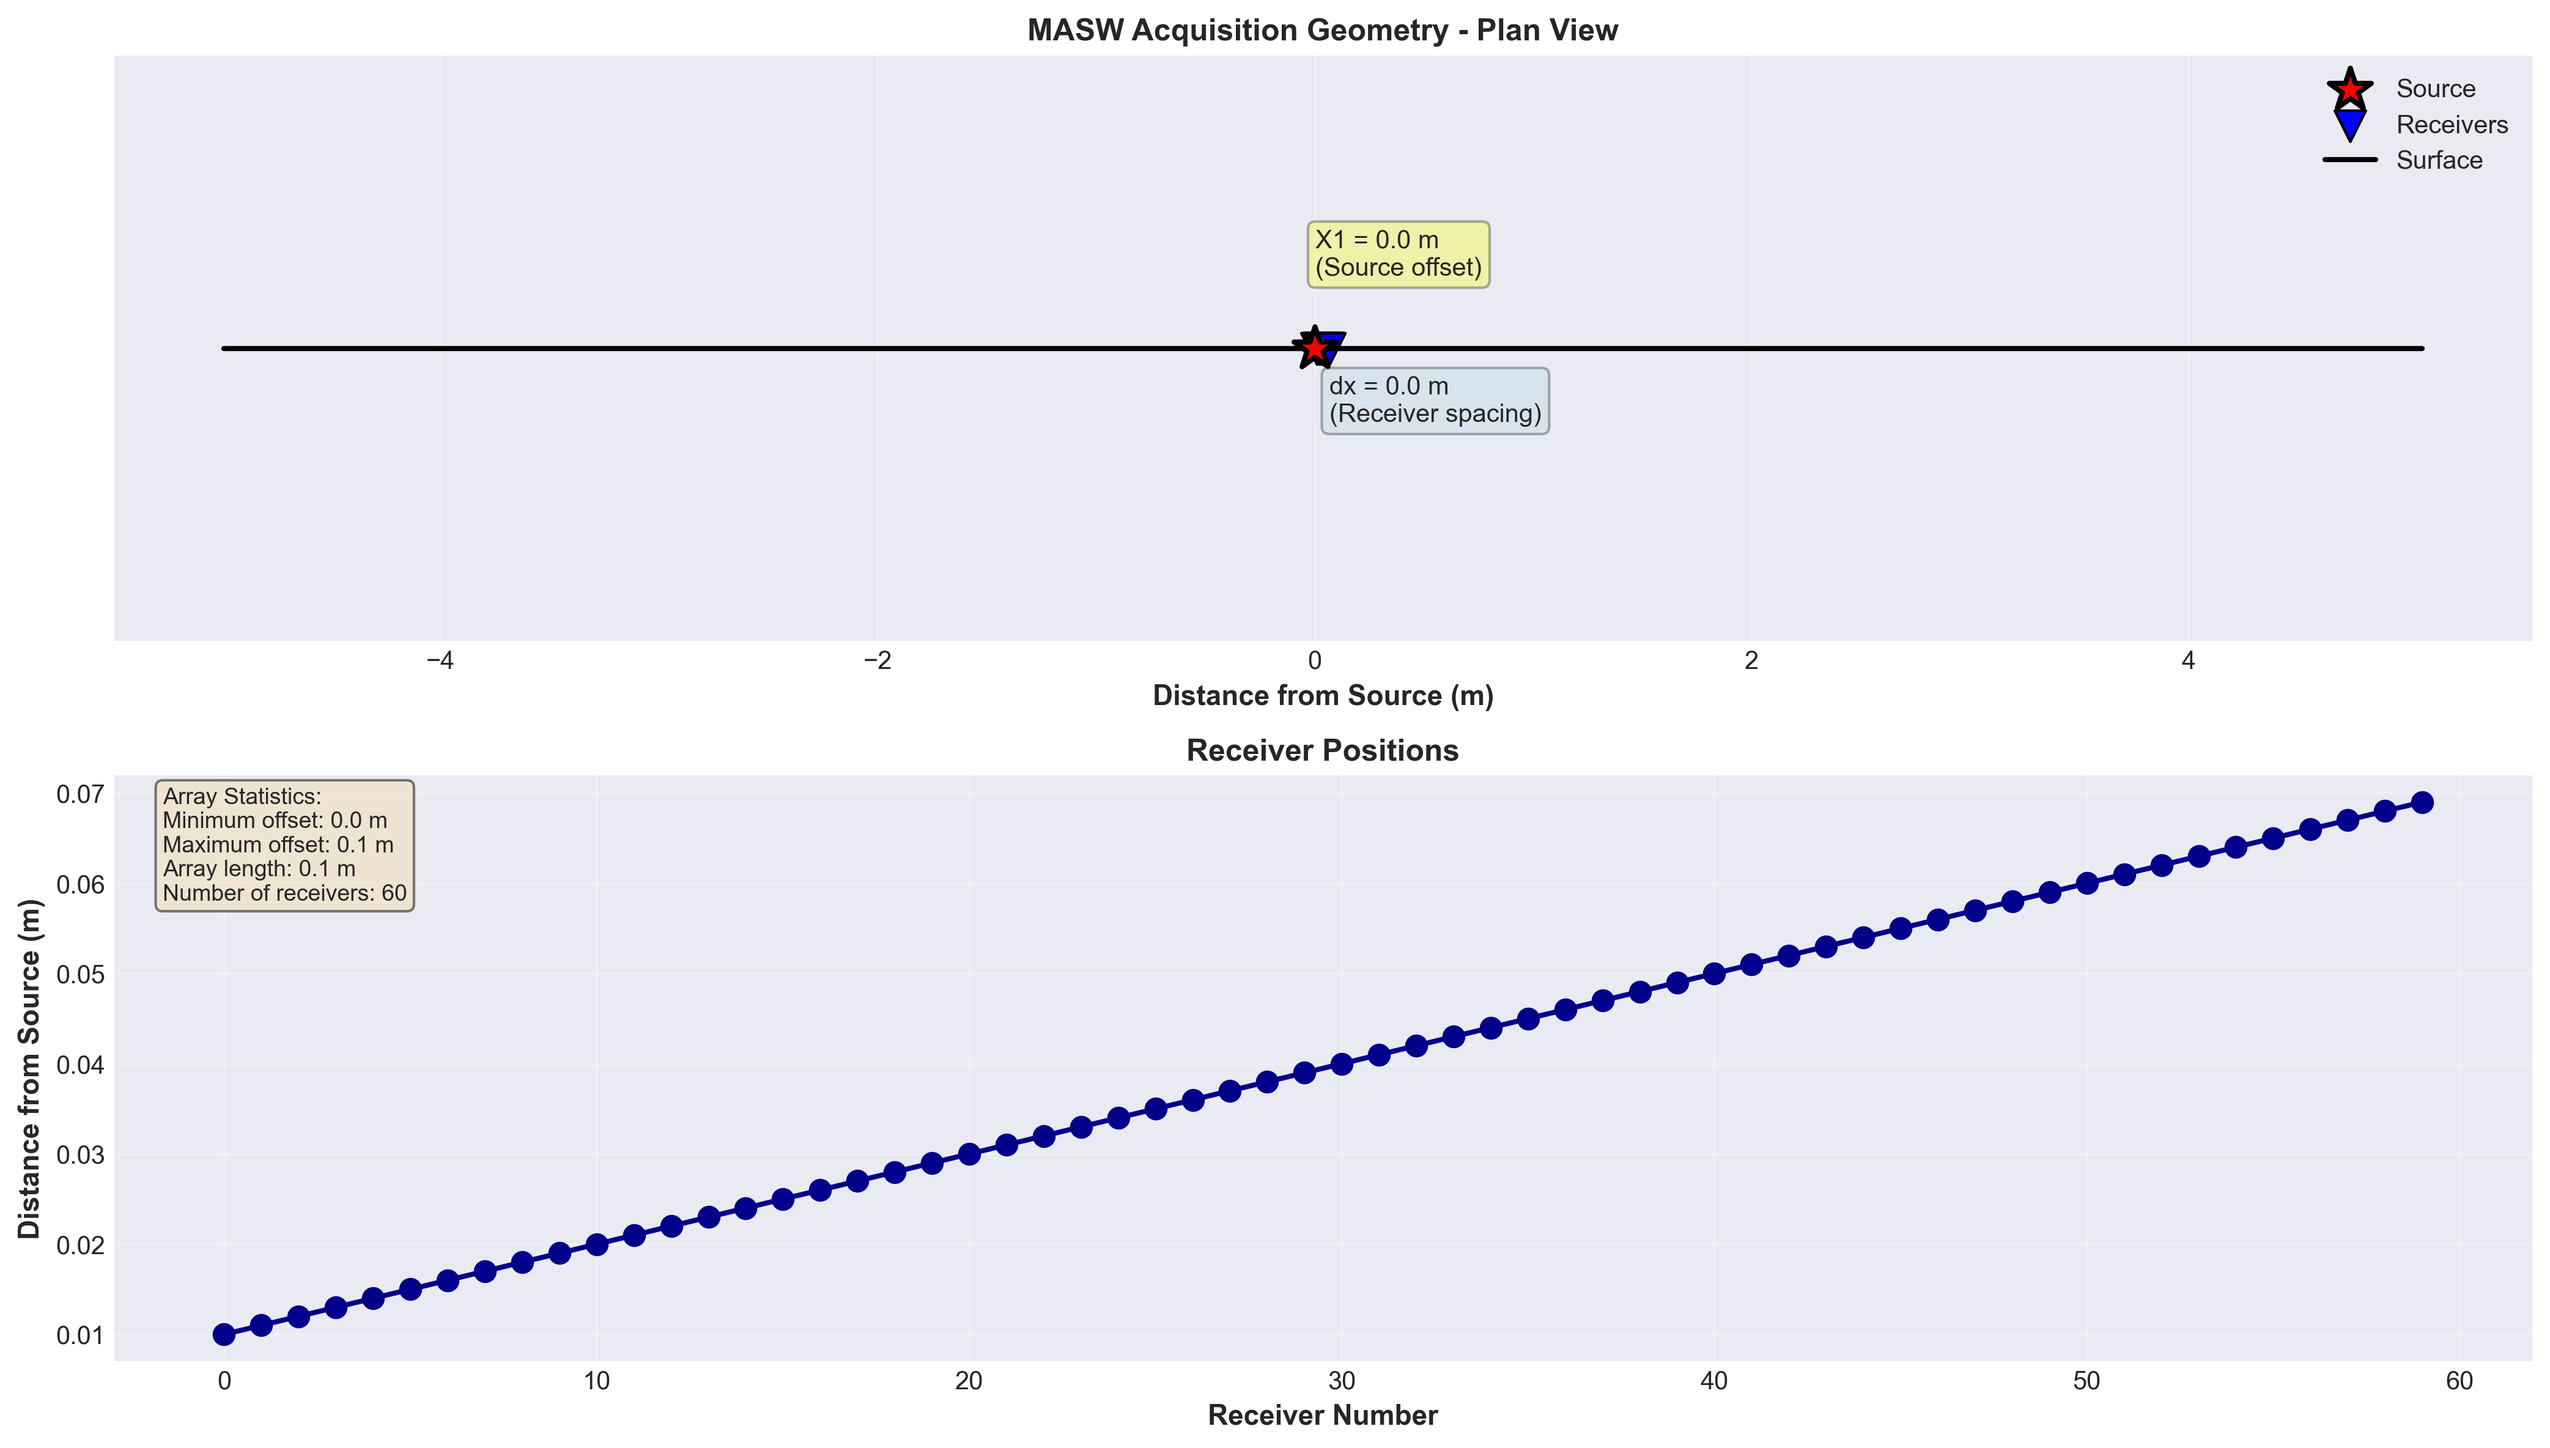
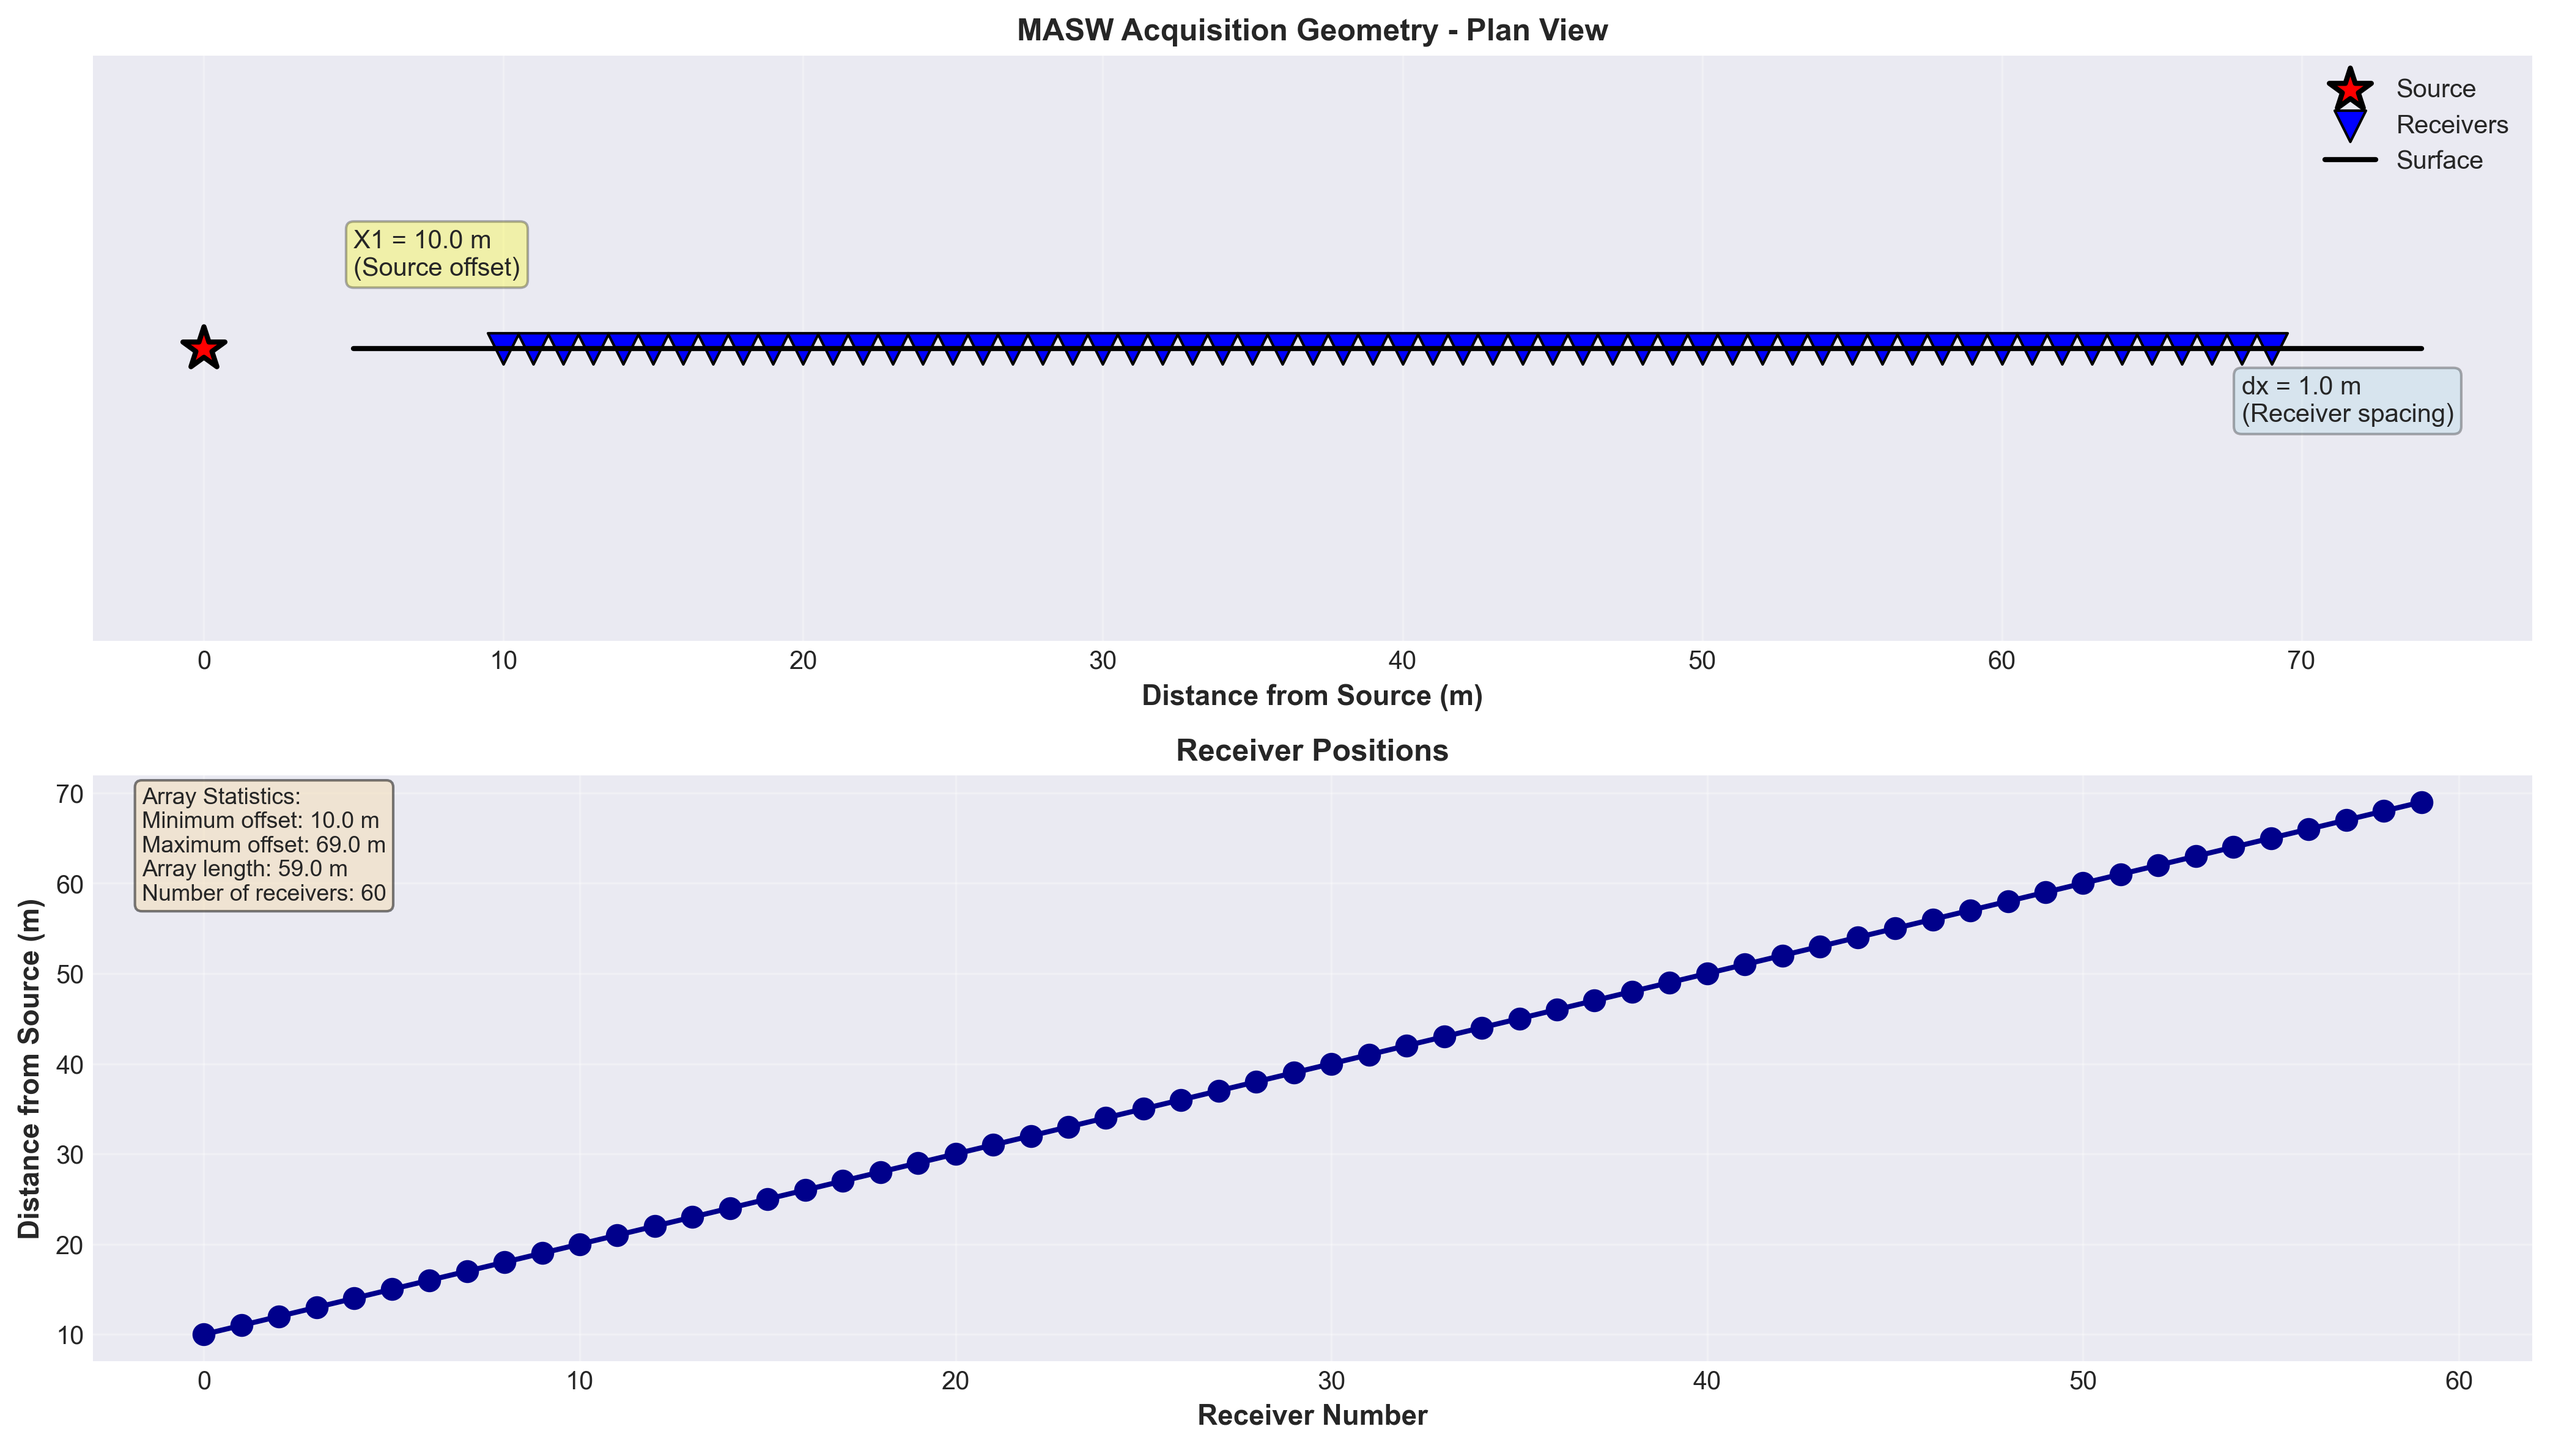
fix: updated the distance units from mm to m.

diff --git a/code/data_loading/explore_data.py b/code/data_loading/explore_data.py
@@ -15,7 +15,7 @@ import sys
 
 # Add project root to path
 sys.path.append('..')
-from config import RAW_DATA_DIR, FIGURES_DIR
+from config import RAW_DATA_DIR, FIGURES_DIR, DISTANCE_CORRECTION_FACTOR
 
 # Set matplotlib style
 plt.style.use('seaborn-v0_8-darkgrid')
@@ -84,10 +84,11 @@ def analyze_trace_info(stream):
         info['end_times'].append(tr.stats.endtime)
         
         # Distance info (if available in SAC header)
+        # Apply correction factor to convert from km (stored as m) to actual m
         if hasattr(tr.stats.sac, 'dist'):
-            info['distances'].append(tr.stats.sac.dist)
+            info['distances'].append(tr.stats.sac.dist * DISTANCE_CORRECTION_FACTOR)
         elif hasattr(tr.stats, 'distance'):
-            info['distances'].append(tr.stats.distance)
+            info['distances'].append(tr.stats.distance * DISTANCE_CORRECTION_FACTOR)
         
         # Print first trace details
         if i == 0:
@@ -244,7 +245,7 @@ def plot_shot_gather(stream, distances=None, save_path=None):
         distances = []
         for tr in stream:
             if hasattr(tr.stats.sac, 'dist'):
-                distances.append(tr.stats.sac.dist)
+                distances.append(tr.stats.sac.dist * DISTANCE_CORRECTION_FACTOR)
             else:
                 distances.append(0)
     
@@ -288,7 +289,7 @@ def plot_shot_gather(stream, distances=None, save_path=None):
     sorted_distances = distances[sort_idx]
     yticks = np.arange(len(stream))
     ax.set_yticks(yticks[::2])  # Every other trace to avoid crowding
-    ax.set_yticklabels([f'{sorted_distances[i]*1000:.1f} mm' for i in yticks[::2]])
+    ax.set_yticklabels([f'{sorted_distances[i]:.1f} m' for i in yticks[::2]])
     
     ax.grid(True, alpha=0.3)
     ax.set_xlim(0, time[-1])
@@ -341,14 +342,14 @@ def plot_individual_traces(stream, n_traces=6, save_path=None):
         tr = stream[idx]
         time = np.arange(tr.stats.npts) * tr.stats.delta
         
-        # Get distance
+        # Get distance (apply correction factor)
         dist = 0
         if hasattr(tr.stats.sac, 'dist'):
-            dist = tr.stats.sac.dist
+            dist = tr.stats.sac.dist * DISTANCE_CORRECTION_FACTOR
         
         # Plot
         axes[i].plot(time, tr.data, 'k-', linewidth=0.8)
-        axes[i].set_ylabel(f'Trace {idx}\n{dist:.0f} m', fontsize=9)
+        axes[i].set_ylabel(f'Trace {idx}\n{dist:.1f} m', fontsize=9)
         axes[i].grid(True, alpha=0.3)
         
         # Only show x-label on bottom plot
@@ -472,11 +473,11 @@ def plot_acquisition_geometry(stream, save_path=None):
         Path to save figure
     """
     
-    # Extract distances
+    # Extract distances (apply correction factor)
     distances = []
     for tr in stream:
         if hasattr(tr.stats.sac, 'dist'):
-            distances.append(tr.stats.sac.dist)
+            distances.append(tr.stats.sac.dist * DISTANCE_CORRECTION_FACTOR)
         else:
             distances.append(0)
     

diff --git a/code/data_loading/load_sac.py b/code/data_loading/load_sac.py
@@ -3,9 +3,14 @@
 Functions for loading SAC format seismic data
 """
 import os
+import sys
 import glob
 from obspy import read, Stream
 import numpy as np
+
+# Add parent directory to path for imports
+sys.path.append(os.path.dirname(os.path.dirname(os.path.abspath(__file__))))
+from config import DISTANCE_CORRECTION_FACTOR
 
 def load_geophydog_data(data_dir):
     """
@@ -36,7 +41,7 @@ def load_geophydog_data(data_dir):
     print(f"Loaded {len(stream)} traces")
     return stream
 
-def get_acquisition_geometry(stream):
+def get_acquisition_geometry(stream, apply_correction=True):
     """
     Extract acquisition geometry from stream
     
@@ -44,6 +49,8 @@ def get_acquisition_geometry(stream):
     -----------
     stream : obspy.Stream
         Stream containing traces
+    apply_correction : bool, optional
+        If True, apply DISTANCE_CORRECTION_FACTOR to distances (default: True)
     
     Returns:
     --------
@@ -63,6 +70,11 @@ def get_acquisition_geometry(stream):
         return None
     
     distances = np.array(distances)
+    
+    # Apply distance correction factor if requested
+    if apply_correction:
+        distances = distances * DISTANCE_CORRECTION_FACTOR
+        print(f"Applied distance correction factor: {DISTANCE_CORRECTION_FACTOR}")
     
     geometry = {
         'distances': distances,

diff --git a/code/config.py b/code/config.py
@@ -22,7 +22,12 @@ DEFAULT_VEL_MAX = 1000.0 # m/s
 # Acquisition geometry (Geophydog data)
 SOURCE_OFFSET = 10.0     # meters (x1)
 RECEIVER_SPACING = 1.0   # meters (dx)
-N_RECEIVERS = 24         # Number of geophones
+N_RECEIVERS = 60         # Number of geophones
+
+# Distance correction factor
+# SAC files have distances in km but stored as if they were m
+# Actual: x1=10m, dx=1m but SAC headers show 0.01m, 0.001m
+DISTANCE_CORRECTION_FACTOR = 1000.0  # Multiply SAC distances by this factor
 
 # Vs30 calculation
 VS30_DEPTH = 30.0        # meters
